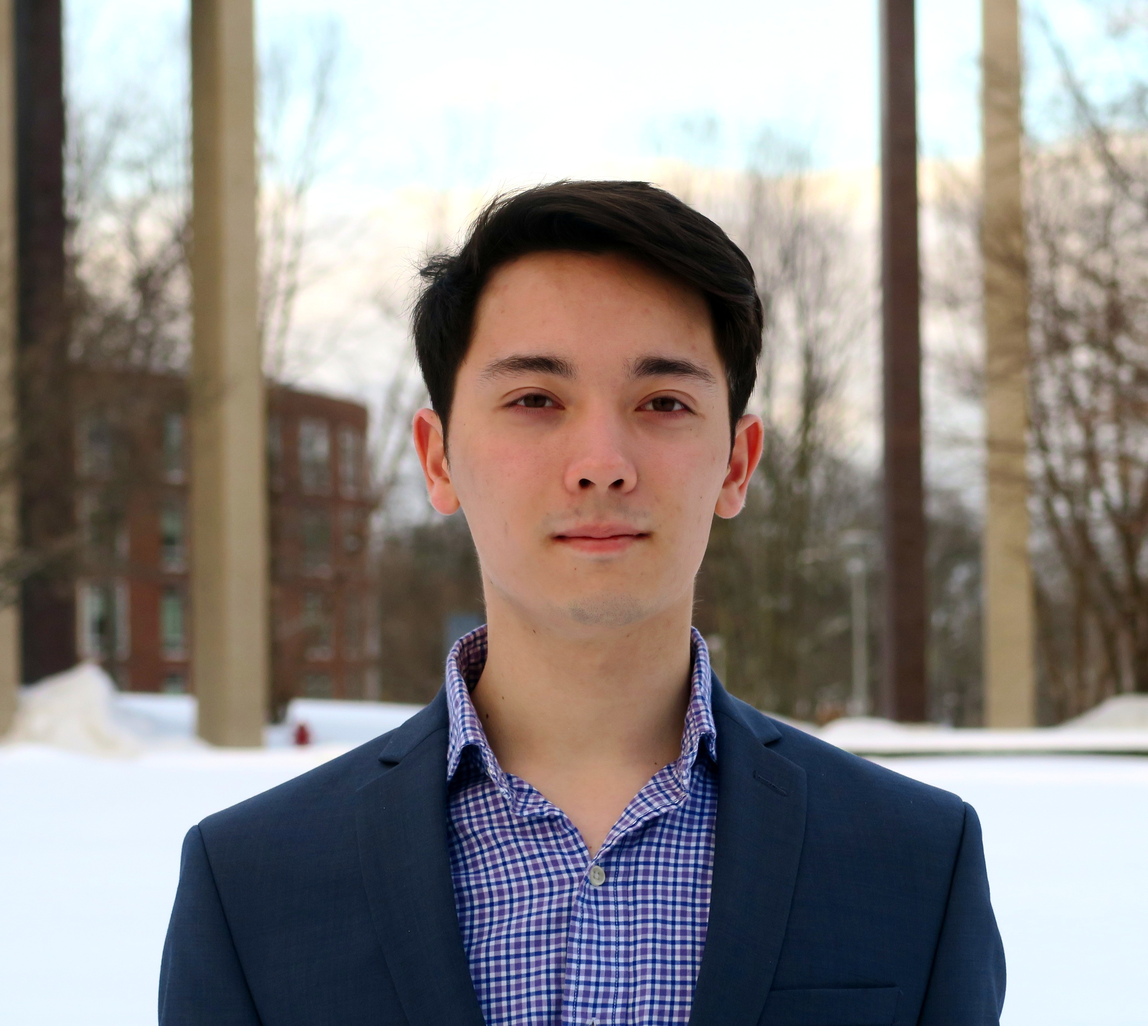
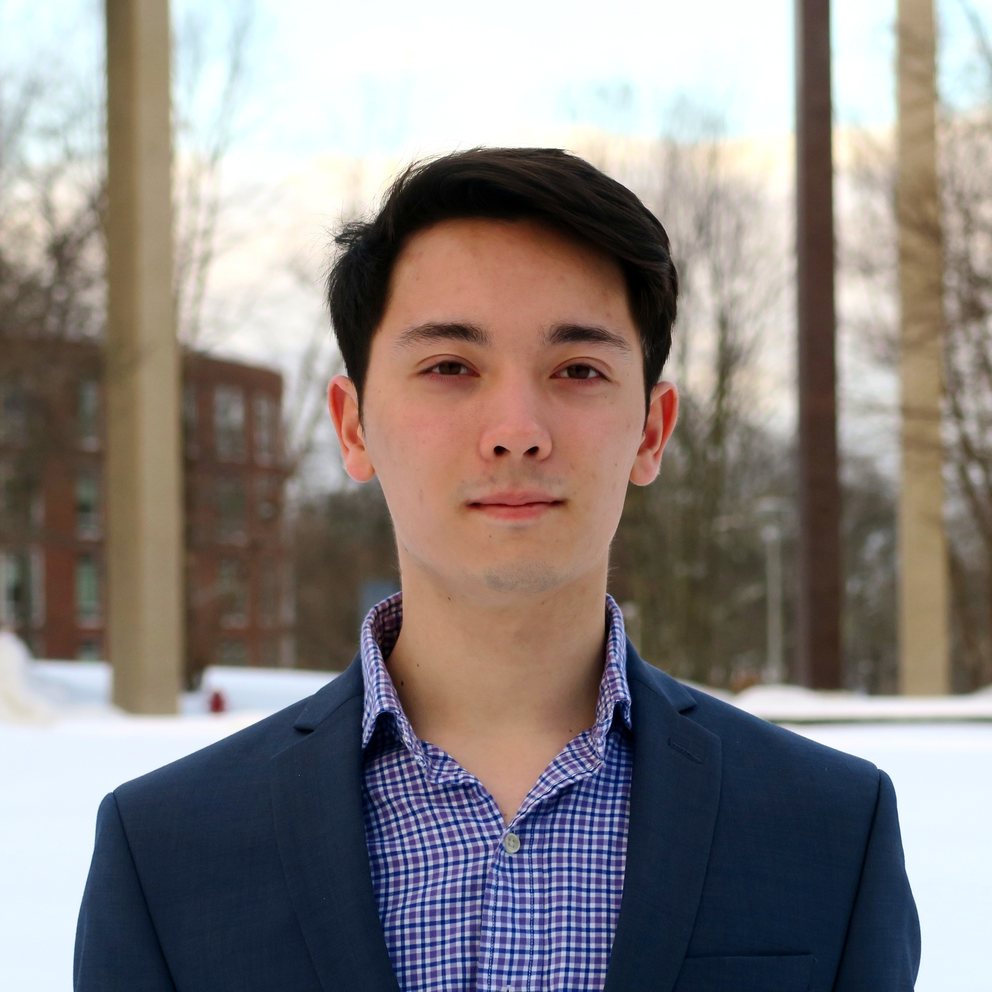
Adjust photos for about us page

diff --git a/Website/HandofGod/aboutus.html b/Website/HandofGod/aboutus.html
@@ -63,7 +63,7 @@
 				</div>
 			</section>
 			<section>
-				<img src="images/melody.jpg" alt="Melody Chiu" style="width:25%">
+				<img src="images/melody.jpg" alt="Melody Chiu" width="300">
 				<div class="container">
 					<h2>Melody Chiu</h2>
 					<p class="title">Computer Science
@@ -77,7 +77,7 @@
 			<section>
 				<img src="images/Chris.JPG" alt="Chris Allum" width="300">
 				<h2>Chris Allum</h2>
-				<p class="title">Electrical and Computer Engineering<br>
+				<p class="title">Robotics Engineering<br>
 					Olin Class of '23<br>
 					callum@olin.edu</p>
 				<a href="https://github.com/ctallum" class="icon brands fa-github fa-2x"  style="color:black"><span class="label">Github</span></a>
